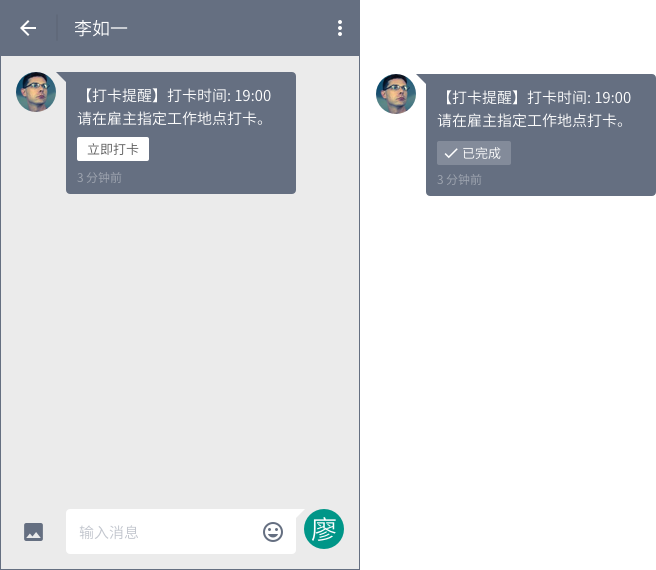
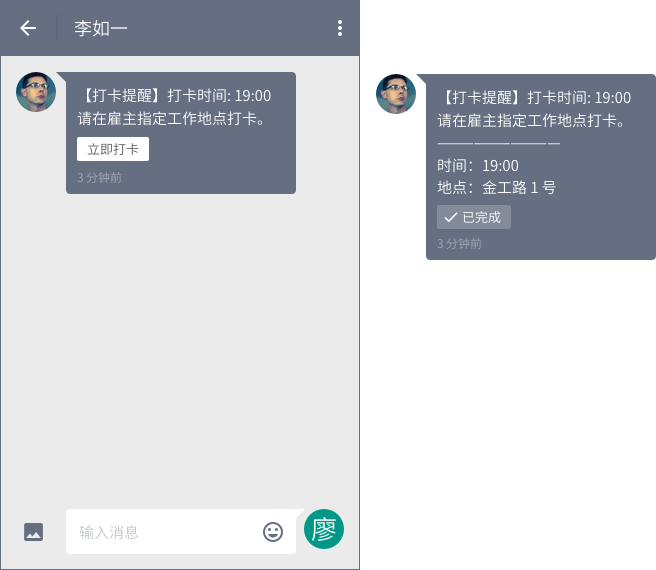
minor fix

Changed region(s): [[0.6402, 0.2386, 1.0, 0.4772]]

diff --git a/employer-upgrade.html b/employer-upgrade.html
@@ -377,28 +377,27 @@ sup {
 
 <p>帮助雇主远程查岗。点击「打卡命令」弹框要求输入打卡时间。点击「发送」后，该岗位中已被录用兼客将立即收到系统以雇主身份发来的 IM 消息。</p>
 
+<pre><code>【标题】打卡命令
+【说明】请设置规定打卡时间，高科技帮您远程查岗。使用【导出至邮箱】功能查看打卡记录表格。
+【时间控件】8 : 01
+【按钮】取消 | 确定
+</code></pre>
+
 <p><img src="img/%E6%89%93%E5%8D%A1%E5%91%BD%E4%BB%A4@2x.png" alt="image" /></p>
 
 <h3>发送条件</h3>
 
 <ul>
-<li>该岗位没过结束时间点。</li>
-</ul>
-
-
-<p>例如
-：岗位工作日期及时间段为 10/1 至 10/3，每日 9:00~18:00，则以 10/3 18:00 为结束时间点。</p>
-
-<ul>
-<li>每天最多 6 次。</li>
+<li>工作时间段（6:00~22:00）内。</li>
+<li>每天每个岗位最多发送 6 次。</li>
 </ul>
 
 
 <p>用完后继续尝试点击「打卡命令」弹框提示：</p>
 
 <pre><code>【标题】发送次数过多
-【说明】支持您每天最多发 6 条打卡命令。
-【按钮】确定
+【说明】目前支持您每天最多发 6 条打卡命令。
+【按钮】知道了
 </code></pre>
 
 <h3>接收条件</h3>
@@ -409,21 +408,30 @@ sup {
 
 <p><img src="img/checkin.png" alt="image" /></p>
 
-<p>点击「立即打卡」，若未命令失效（仅发送当天有效）则弹框：</p>
+<p>兼客在命令发送当天点击「立即打卡」则弹框：</p>
 
-<pre><code>确认打卡
+<pre><code>【标题】确认打卡
+【第 1 行说明】位置：红坊海峡创意产业园
+【第 2 行说明】时间：2015 10/1 9:35
+【按钮】取消 | 确定
+</code></pre>
+
+<p>点击「确定」完成打卡，在打卡命令中显示结果：</p>
+
+<pre><code>【打卡提醒】打卡时间: 19:00
+请在雇主指定工作地点打卡。
+——————————
 位置：红坊海峡创意产业园
 时间：2015 10/1 9:35
-取消 | 确定
 </code></pre>
 
-<p>若已失效或未生效，则弹框：</p>
-
-<pre><code>该提醒已过期失效。
-确定
-</code></pre>
+<p>若命令已失效（仅发送当天有效）则按钮被置灰，不可点击。</p>
 
 <p>兼客不可重复点击「立即打卡」，确定后按钮变换为「已完成」。该操作对雇主及兼客均不作特殊提醒。定位不准带来的偏差由雇主人工判断。系统规则中打卡时间与薪资计算不挂钩。</p>
+
+<hr />
+
+<p>注：不在对聊页中通知雇主打卡结果。统一通过功能号「打卡记录」查看。</p>
 
 <h2>导出至邮箱</h2>
 
@@ -446,6 +454,9 @@ sup {
 <p>标题：【${岗位标题}】兼客详情</p>
 
 <p>正文：由 <a href="http://jianke.cc">兼客兼职</a> 发送。（如果这不是您申请发送的邮件，请忽视）</p>
+
+<pre><code>（直接在此展示附件表格内容，方便雇主快速查阅）
+</code></pre>
 
 <p>附件：【${岗位标题}】兼客详情.csv</p>
 

diff --git a/bell-upgrade.html b/bell-upgrade.html
@@ -391,9 +391,31 @@ sup {
 
 <p>不支持具体兼客的勾选，默认发送给人才库中未被隐藏的所有兼客。</p>
 
-<h3>发送范围</h3>
+<h3>发送</h3>
 
 <p>由于雇主可随时在人才库中对兼客进行「隐藏」或「显示」操作，因此雇主打开的「人才库消息推送」页面中各条消息的发送范围不一。</p>
+
+<p>点击分享面板「人才库」选项后，弹框确认，说明文字中显示出人才库未被隐藏的前三位兼客姓名及接收总数：</p>
+
+<pre><code>【标题】推送给人才库
+【说明】芦荟、廖化、林萍芝等 33 名兼客将收到您的岗位推送。点击确定，立即发送。
+【按钮】取消 | 确定
+</code></pre>
+
+<p>限制雇主每天最多发送 6 条人才库消息推送。第 7 次起尝试推送岗位时弹框：</p>
+
+<pre><code>【标题】推送次数过多
+【说明】目前支持您每天最多发 6 条岗位推送。
+【按钮】知道了
+</code></pre>
+
+<h3>接收</h3>
+
+<p>兼客端在与雇主的对聊页中接收消息。</p>
+
+<hr />
+
+<p>注：「人才库消息推送」对聊页不显示文本框。</p>
 
 <h2>聊天上下文</h2>
 
@@ -409,5 +431,9 @@ sup {
 <li>岗位标题条对兼客雇主皆可见</li>
 </ul>
 
+
+<h2>打卡记录</h2>
+
+<p>新增功能号「打卡记录」。</p>
 </body>
 </html>

diff --git a/index.html b/index.html
@@ -388,10 +388,6 @@ sup {
 </ul>
 
 
-<h3><a href="lucky-money.html">拆红包</a></h3>
-
-<p>注册用户即可【发邀请码】，被邀请用户点开链接领邀请码、注册成为兼客并完工一次，双方均得红包。</p>
-
 <h3><a href="optimization.html">若干优化</a></h3>
 
 <ul>

diff --git a/employer-upgrade.md b/employer-upgrade.md
@@ -7,22 +7,25 @@
 ## 打卡命令
 帮助雇主远程查岗。点击「打卡命令」弹框要求输入打卡时间。点击「发送」后，该岗位中已被录用兼客将立即收到系统以雇主身份发来的 IM 消息。
 
+```
+【标题】打卡命令
+【说明】请设置规定打卡时间，高科技帮您远程查岗。使用【导出至邮箱】功能查看打卡记录表格。
+【时间控件】8 : 01
+【按钮】取消 | 确定
+```
+
 ![image](img/打卡命令@2x.png)
 
 ### 发送条件
-- 该岗位没过结束时间点。
-
-例如
-：岗位工作日期及时间段为 10/1 至 10/3，每日 9:00~18:00，则以 10/3 18:00 为结束时间点。
-
-- 每天最多 6 次。
+- 工作时间段（6:00~22:00）内。
+- 每天每个岗位最多发送 6 次。
 
 用完后继续尝试点击「打卡命令」弹框提示：
 
 ```
 【标题】发送次数过多
-【说明】支持您每天最多发 6 条打卡命令。
-【按钮】确定
+【说明】目前支持您每天最多发 6 条打卡命令。
+【按钮】知道了
 ```
 
 ### 接收条件
@@ -31,23 +34,31 @@
 ### 兼客打卡
 ![image](img/checkin.png)
 
-点击「立即打卡」，若未命令失效（仅发送当天有效）则弹框：
+兼客在命令发送当天点击「立即打卡」则弹框：
 
 ```
-确认打卡
+【标题】确认打卡
+【第 1 行说明】位置：红坊海峡创意产业园
+【第 2 行说明】时间：2015 10/1 9:35
+【按钮】取消 | 确定
+```
+
+点击「确定」完成打卡，在打卡命令中显示结果：
+
+```
+【打卡提醒】打卡时间: 19:00
+请在雇主指定工作地点打卡。
+——————————
 位置：红坊海峡创意产业园
 时间：2015 10/1 9:35
-取消 | 确定
 ```
 
-若已失效或未生效，则弹框：
-
-```
-该提醒已过期失效。
-确定
-```
+若命令已失效（仅发送当天有效）则按钮被置灰，不可点击。
 
 兼客不可重复点击「立即打卡」，确定后按钮变换为「已完成」。该操作对雇主及兼客均不作特殊提醒。定位不准带来的偏差由雇主人工判断。系统规则中打卡时间与薪资计算不挂钩。
+
+--------------------
+注：不在对聊页中通知雇主打卡结果。统一通过功能号「打卡记录」查看。
 
 ## 导出至邮箱
 ![image](img/excel.png)
@@ -67,6 +78,11 @@
 标题：【${岗位标题}】兼客详情
 
 正文：由 [兼客兼职](http://jianke.cc) 发送。（如果这不是您申请发送的邮件，请忽视）
+
+```
+（直接在此展示附件表格内容，方便雇主快速查阅）
+```
+
 
 附件：【${岗位标题}】兼客详情.csv
 

diff --git a/bell-upgrade.md b/bell-upgrade.md
@@ -16,8 +16,30 @@
 ### 选择兼客
 不支持具体兼客的勾选，默认发送给人才库中未被隐藏的所有兼客。
 
-### 发送范围
+### 发送
 由于雇主可随时在人才库中对兼客进行「隐藏」或「显示」操作，因此雇主打开的「人才库消息推送」页面中各条消息的发送范围不一。
+
+点击分享面板「人才库」选项后，弹框确认，说明文字中显示出人才库未被隐藏的前三位兼客姓名及接收总数：
+
+```
+【标题】推送给人才库
+【说明】芦荟、廖化、林萍芝等 33 名兼客将收到您的岗位推送。点击确定，立即发送。
+【按钮】取消 | 确定
+```
+
+限制雇主每天最多发送 6 条人才库消息推送。第 7 次起尝试推送岗位时弹框：
+
+```
+【标题】推送次数过多
+【说明】目前支持您每天最多发 6 条岗位推送。
+【按钮】知道了
+```
+
+### 接收
+兼客端在与雇主的对聊页中接收消息。
+
+--------------------
+注：「人才库消息推送」对聊页不显示文本框。
 
 ## 聊天上下文
 ![image](img/context.png)
@@ -29,3 +51,6 @@
 - 兼客报名/抢单新岗位且向相应雇主发送消息时显示
 - 每个新岗位标题条仅显示一次
 - 岗位标题条对兼客雇主皆可见
+
+## 打卡记录
+新增功能号「打卡记录」。

diff --git a/index.md b/index.md
@@ -9,9 +9,6 @@
 - 群发岗位：类似群发消息，暂仅支持雇主使用。预计下一版本做群聊。
 - 聊天上下文：气泡间增加岗位标题条
 
-### [拆红包](lucky-money.html)
-注册用户即可【发邀请码】，被邀请用户点开链接领邀请码、注册成为兼客并完工一次，双方均得红包。
-
 ### [若干优化](optimization.html)
 - 新建岗位权限：对未完成实名认证的雇主，限制最多发布 3 条岗位。
 - 身份证号使用声明
